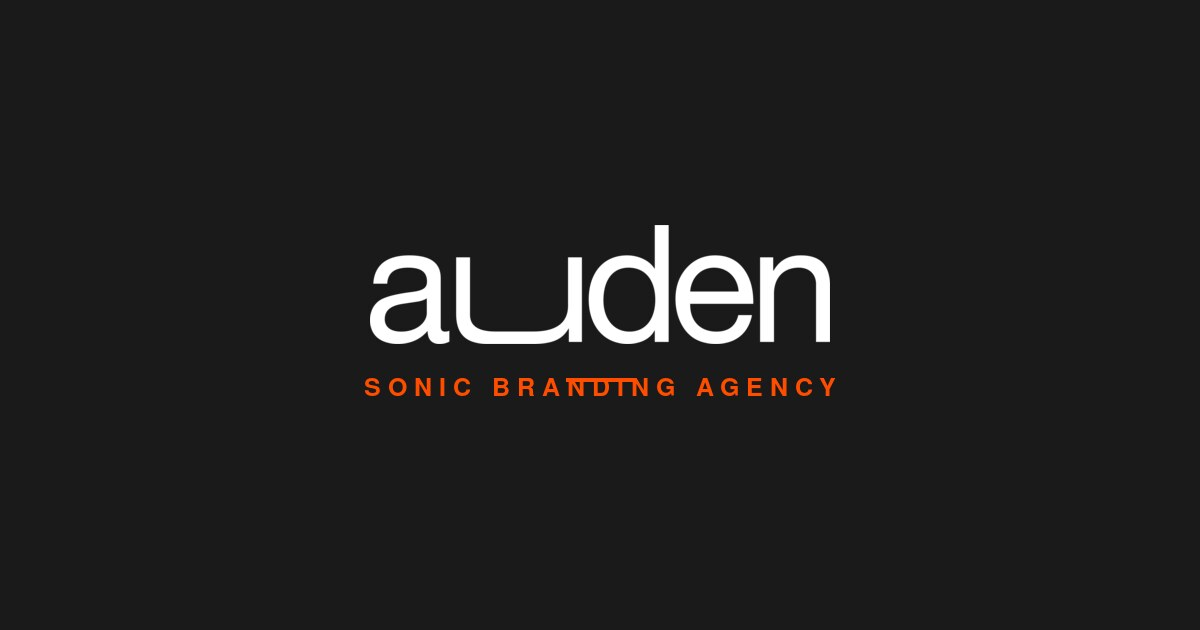
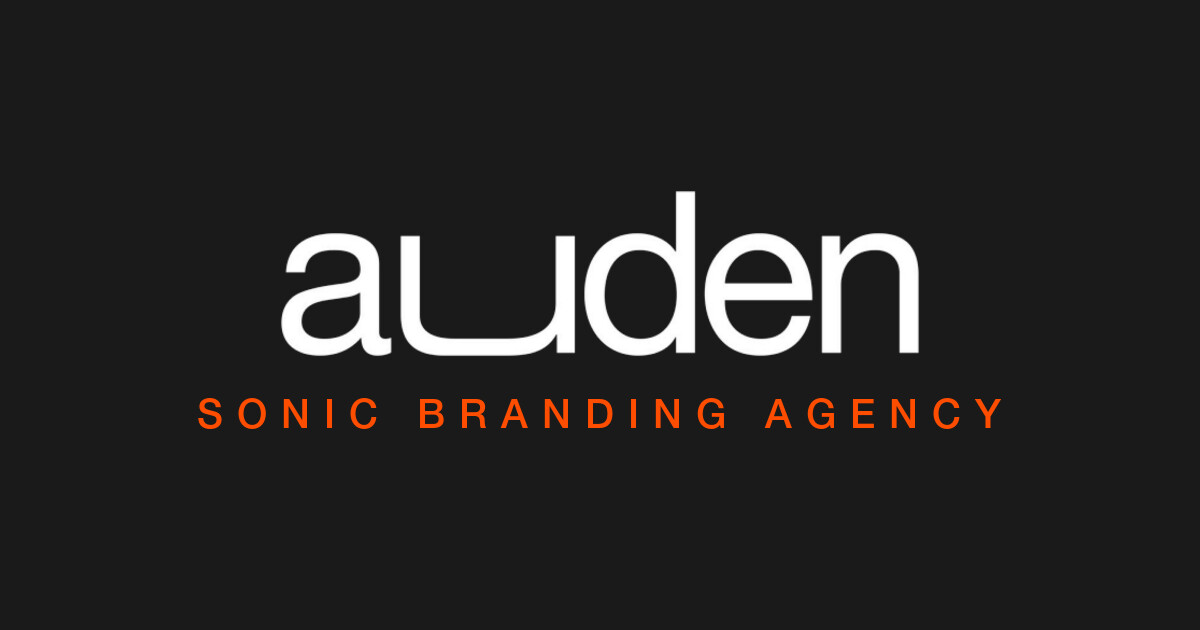
Redesign OG/social preview image: bigger lockup, legible tagline
The WhatsApp link preview looked off — the orange tagline rendered tiny
and muddy at preview scale with lots of empty space around the lockup.

- Rebuild og-image: larger centered wordmark, vivid legible
  SONIC BRANDING AGENCY tagline in brand fire orange, better balance
- Ship under new filename (og-image-v2.jpg) to bust WhatsApp's URL cache
- Add og:image:width/height/type/alt meta for reliable large-card render
  in WhatsApp, LinkedIn and Twitter/X

Changed region(s): [[0.1542, 0.3016, 0.8325, 0.6937]]

diff --git a/src/i18n/es.ts b/src/i18n/es.ts
@@ -6,7 +6,7 @@ export const es: Translations = {
     title: 'Auden — Agencia de Sonic Branding',
     description:
       'Auden crea identidades sonoras originales para marcas que quieren diferenciarse a través del sonido. Sonic branding estratégico para el reconocimiento, la memoria y la consistencia.',
-    ogImage: '/og-image.jpg',
+    ogImage: '/og-image-v2.jpg',
   },
   nav: {
     offer: 'Nuestra oferta',

diff --git a/src/i18n/en.ts b/src/i18n/en.ts
@@ -4,7 +4,7 @@ export const en = {
     title: 'Auden — Sonic Branding Agency',
     description:
       'Auden creates original sonic identities for brands that want to differentiate through sound. Strategic sonic branding for recognition, memory, and consistency.',
-    ogImage: '/og-image.jpg',
+    ogImage: '/og-image-v2.jpg',
   },
   nav: {
     offer: 'Our offer',
